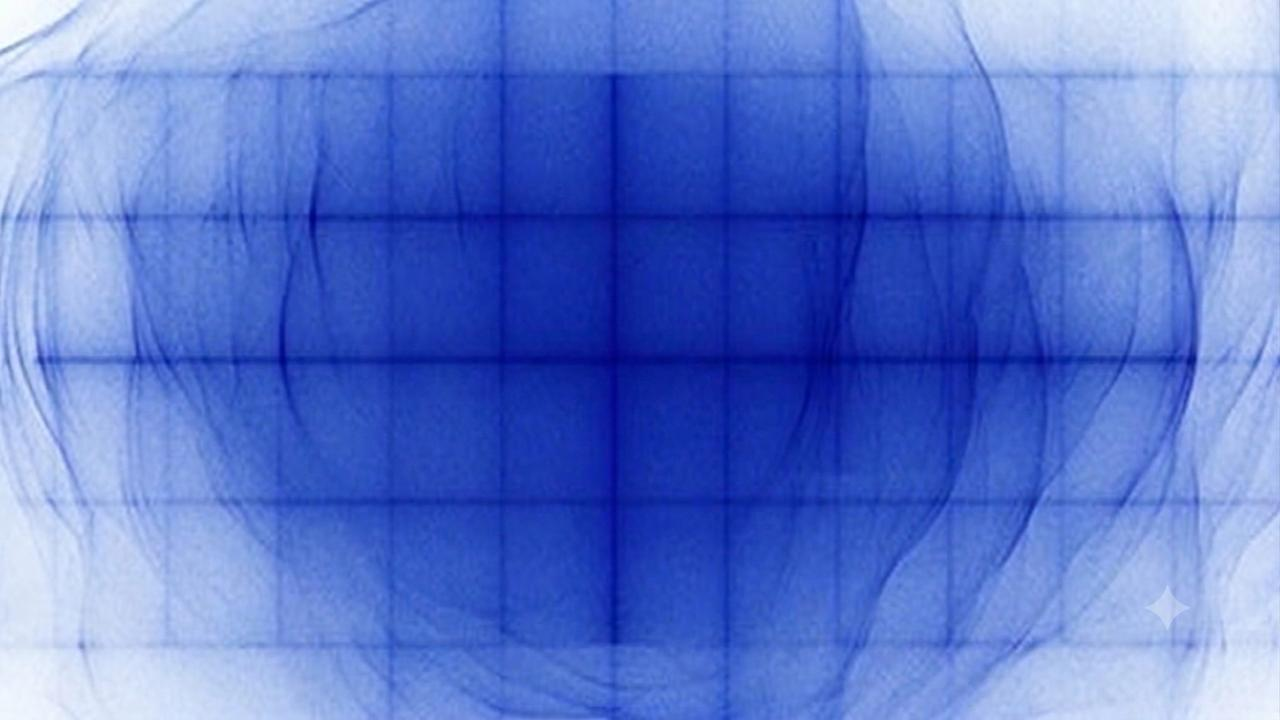
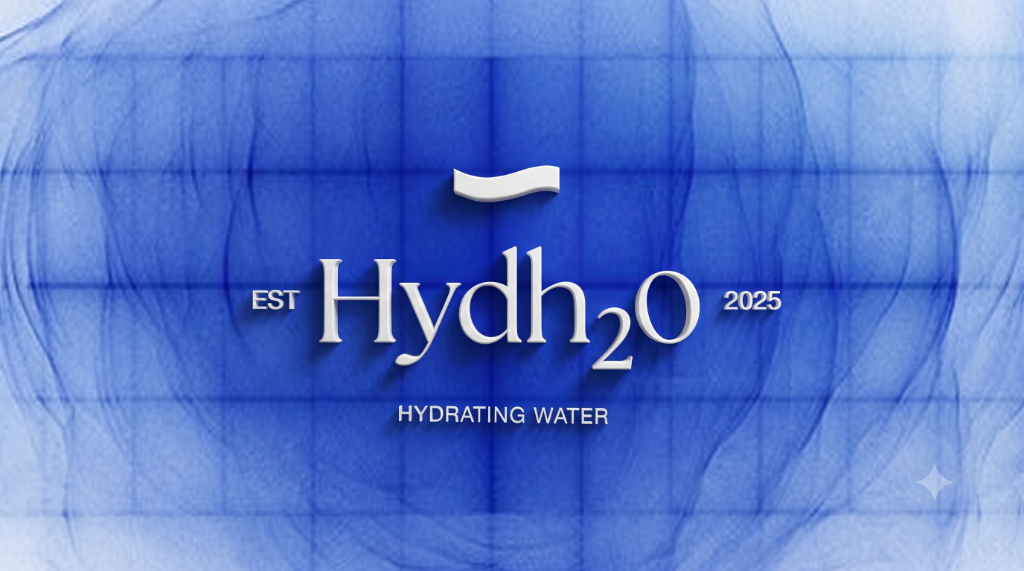
feat: update blue photo with official brand typography graphic and place it on the left side in 04 Why HYDH2O section

diff --git a/src/components/About.tsx b/src/components/About.tsx
@@ -8,6 +8,13 @@ export default function About({
 }) {
   return (
     <section id="about" className="section about">
+      <div className="about-art reveal" aria-hidden="true">
+        <img
+          src="/assets/hydh2o-brand-blue.png"
+          alt="HYDH₂O Hydrating Water"
+          loading="lazy"
+        />
+      </div>
       <div className="about-text reveal">
         <p className="eyebrow">04 / Why HYDH₂O</p>
         <h2>Water was never the boring part.</h2>
@@ -29,10 +36,6 @@ export default function About({
             Why HYDH₂O <ArrowUpRight size={18} />
           </a>
         </div>
-      </div>
-      <div className="about-art reveal" aria-hidden="true">
-        <img src="/assets/hydh2o-abstract-blue.png" alt="" />
-        <span>H₂O</span>
       </div>
       <div className="manifesto reveal">
         <div><span>01</span><h3>Our mission</h3><p>Make exceptional hydration feel like culture, not a chore.</p></div>

diff --git a/src/components/About.css b/src/components/About.css
@@ -27,16 +27,18 @@
 
 .about-art {
   position: relative;
-  min-height: 650px;
+  min-height: 600px;
   overflow: hidden;
   border-radius: 100% 100% 4px 4px;
+  box-shadow: 0 25px 60px rgba(0, 40, 150, 0.12);
+  background: #00227a;
 }
 
 .about-art img {
   width: 100%;
   height: 100%;
   object-fit: cover;
-  filter: saturate(1.3) contrast(1.08);
+  object-position: center;
 }
 
 .about-art span {
@@ -104,7 +106,11 @@
     flex-direction: column;
     gap: 36px;
   }
+  .about-text {
+    order: 1;
+  }
   .about-art {
+    order: 2;
     min-height: 300px;
     height: 360px;
     margin-top: 24px;

diff --git a/src/components/InstagramIcon.tsx b/src/components/InstagramIcon.tsx
@@ -24,3 +24,4 @@ export default function InstagramIcon({
     </svg>
   );
 }
+
